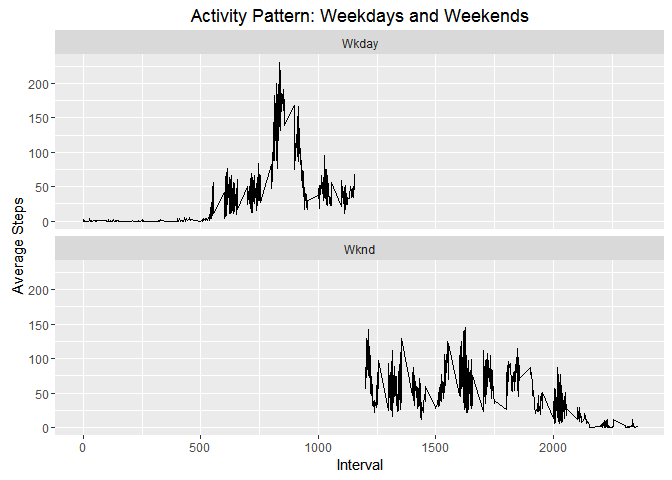
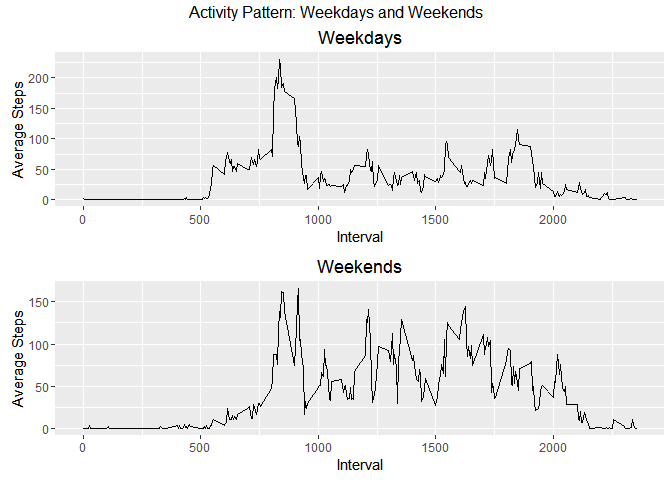
New Updates

diff --git a/PA_template.html b/PA_template.html
@@ -150,6 +150,12 @@ library(dplyr)</code></pre>
 <pre><code>## The following objects are masked from 'package:base':
 ## 
 ##     intersect, setdiff, setequal, union</code></pre>
+<pre class="r"><code>library(gridExtra)</code></pre>
+<pre><code>## 
+## Attaching package: 'gridExtra'</code></pre>
+<pre><code>## The following object is masked from 'package:dplyr':
+## 
+##     combine</code></pre>
 <pre class="r"><code>download(&quot;https://d396qusza40orc.cloudfront.net/repdata%2Fdata%2Factivity.zip&quot;, 
          dest=&quot;dataset.zip&quot;, mode=&quot;wb&quot;)
 
@@ -169,52 +175,10 @@ hist(daily_steps, xlab = &quot;Daily Steps&quot;, col = &quot;Green&quot;)</code
 <div id="mean-and-median-of-total-number-of-steps-taken-per-day" class="section level3">
 <h3>Mean and median of total number of steps taken per day</h3>
 <pre class="r"><code>#mean
-tapply(activity_df$steps, activity_df$date, mean)</code></pre>
-<pre><code>## 2012-10-01 2012-10-02 2012-10-03 2012-10-04 2012-10-05 2012-10-06 
-##         NA  0.4375000 39.4166667 42.0694444 46.1597222 53.5416667 
-## 2012-10-07 2012-10-08 2012-10-09 2012-10-10 2012-10-11 2012-10-12 
-## 38.2465278         NA 44.4826389 34.3750000 35.7777778 60.3541667 
-## 2012-10-13 2012-10-14 2012-10-15 2012-10-16 2012-10-17 2012-10-18 
-## 43.1458333 52.4236111 35.2048611 52.3750000 46.7083333 34.9166667 
-## 2012-10-19 2012-10-20 2012-10-21 2012-10-22 2012-10-23 2012-10-24 
-## 41.0729167 36.0937500 30.6284722 46.7361111 30.9652778 29.0104167 
-## 2012-10-25 2012-10-26 2012-10-27 2012-10-28 2012-10-29 2012-10-30 
-##  8.6527778 23.5347222 35.1354167 39.7847222 17.4236111 34.0937500 
-## 2012-10-31 2012-11-01 2012-11-02 2012-11-03 2012-11-04 2012-11-05 
-## 53.5208333         NA 36.8055556 36.7048611         NA 36.2465278 
-## 2012-11-06 2012-11-07 2012-11-08 2012-11-09 2012-11-10 2012-11-11 
-## 28.9375000 44.7326389 11.1770833         NA         NA 43.7777778 
-## 2012-11-12 2012-11-13 2012-11-14 2012-11-15 2012-11-16 2012-11-17 
-## 37.3784722 25.4722222         NA  0.1423611 18.8923611 49.7881944 
-## 2012-11-18 2012-11-19 2012-11-20 2012-11-21 2012-11-22 2012-11-23 
-## 52.4652778 30.6979167 15.5277778 44.3993056 70.9270833 73.5902778 
-## 2012-11-24 2012-11-25 2012-11-26 2012-11-27 2012-11-28 2012-11-29 
-## 50.2708333 41.0902778 38.7569444 47.3819444 35.3576389 24.4687500 
-## 2012-11-30 
-##         NA</code></pre>
-<pre class="r"><code>tapply(activity_df$steps, activity_df$date, median)</code></pre>
-<pre><code>## 2012-10-01 2012-10-02 2012-10-03 2012-10-04 2012-10-05 2012-10-06 
-##         NA          0          0          0          0          0 
-## 2012-10-07 2012-10-08 2012-10-09 2012-10-10 2012-10-11 2012-10-12 
-##          0         NA          0          0          0          0 
-## 2012-10-13 2012-10-14 2012-10-15 2012-10-16 2012-10-17 2012-10-18 
-##          0          0          0          0          0          0 
-## 2012-10-19 2012-10-20 2012-10-21 2012-10-22 2012-10-23 2012-10-24 
-##          0          0          0          0          0          0 
-## 2012-10-25 2012-10-26 2012-10-27 2012-10-28 2012-10-29 2012-10-30 
-##          0          0          0          0          0          0 
-## 2012-10-31 2012-11-01 2012-11-02 2012-11-03 2012-11-04 2012-11-05 
-##          0         NA          0          0         NA          0 
-## 2012-11-06 2012-11-07 2012-11-08 2012-11-09 2012-11-10 2012-11-11 
-##          0          0          0         NA         NA          0 
-## 2012-11-12 2012-11-13 2012-11-14 2012-11-15 2012-11-16 2012-11-17 
-##          0          0         NA          0          0          0 
-## 2012-11-18 2012-11-19 2012-11-20 2012-11-21 2012-11-22 2012-11-23 
-##          0          0          0          0          0          0 
-## 2012-11-24 2012-11-25 2012-11-26 2012-11-27 2012-11-28 2012-11-29 
-##          0          0          0          0          0          0 
-## 2012-11-30 
-##         NA</code></pre>
+mean(daily_steps, na.rm = TRUE)</code></pre>
+<pre><code>## [1] 10766.19</code></pre>
+<pre class="r"><code>median(daily_steps, na.rm = TRUE)</code></pre>
+<pre><code>## [1] 10765</code></pre>
 </div>
 </div>
 <div id="what-is-the-average-daily-activity-pattern" class="section level2">
@@ -266,52 +230,10 @@ daily_steps &lt;- tapply(activity_df$steps, activity_df$date, sum)
 hist(daily_steps, xlab = &quot;Daily Steps&quot;, col = &quot;Green&quot;)</code></pre>
[1 lines of base64/hex data omitted]
 <pre class="r"><code>#mean
-tapply(activity_df$steps, activity_df$date, mean)</code></pre>
-<pre><code>## 2012-10-01 2012-10-02 2012-10-03 2012-10-04 2012-10-05 2012-10-06 
-## 36.5625000  0.4375000 39.4166667 42.0694444 46.1597222 53.5416667 
-## 2012-10-07 2012-10-08 2012-10-09 2012-10-10 2012-10-11 2012-10-12 
-## 38.2465278 36.5625000 44.4826389 34.3750000 35.7777778 60.3541667 
-## 2012-10-13 2012-10-14 2012-10-15 2012-10-16 2012-10-17 2012-10-18 
-## 43.1458333 52.4236111 35.2048611 52.3750000 46.7083333 34.9166667 
-## 2012-10-19 2012-10-20 2012-10-21 2012-10-22 2012-10-23 2012-10-24 
-## 41.0729167 36.0937500 30.6284722 46.7361111 30.9652778 29.0104167 
-## 2012-10-25 2012-10-26 2012-10-27 2012-10-28 2012-10-29 2012-10-30 
-##  8.6527778 23.5347222 35.1354167 39.7847222 17.4236111 34.0937500 
-## 2012-10-31 2012-11-01 2012-11-02 2012-11-03 2012-11-04 2012-11-05 
-## 53.5208333 36.5625000 36.8055556 36.7048611 36.5625000 36.2465278 
-## 2012-11-06 2012-11-07 2012-11-08 2012-11-09 2012-11-10 2012-11-11 
-## 28.9375000 44.7326389 11.1770833 36.5625000 36.5625000 43.7777778 
-## 2012-11-12 2012-11-13 2012-11-14 2012-11-15 2012-11-16 2012-11-17 
-## 37.3784722 25.4722222 36.5625000  0.1423611 18.8923611 49.7881944 
-## 2012-11-18 2012-11-19 2012-11-20 2012-11-21 2012-11-22 2012-11-23 
-## 52.4652778 30.6979167 15.5277778 44.3993056 70.9270833 73.5902778 
-## 2012-11-24 2012-11-25 2012-11-26 2012-11-27 2012-11-28 2012-11-29 
-## 50.2708333 41.0902778 38.7569444 47.3819444 35.3576389 24.4687500 
-## 2012-11-30 
-## 36.5625000</code></pre>
-<pre class="r"><code>tapply(activity_df$steps, activity_df$date, median)</code></pre>
-<pre><code>## 2012-10-01 2012-10-02 2012-10-03 2012-10-04 2012-10-05 2012-10-06 
-##       33.5        0.0        0.0        0.0        0.0        0.0 
-## 2012-10-07 2012-10-08 2012-10-09 2012-10-10 2012-10-11 2012-10-12 
-##        0.0       33.5        0.0        0.0        0.0        0.0 
-## 2012-10-13 2012-10-14 2012-10-15 2012-10-16 2012-10-17 2012-10-18 
-##        0.0        0.0        0.0        0.0        0.0        0.0 
-## 2012-10-19 2012-10-20 2012-10-21 2012-10-22 2012-10-23 2012-10-24 
-##        0.0        0.0        0.0        0.0        0.0        0.0 
-## 2012-10-25 2012-10-26 2012-10-27 2012-10-28 2012-10-29 2012-10-30 
-##        0.0        0.0        0.0        0.0        0.0        0.0 
-## 2012-10-31 2012-11-01 2012-11-02 2012-11-03 2012-11-04 2012-11-05 
-##        0.0       33.5        0.0        0.0       33.5        0.0 
-## 2012-11-06 2012-11-07 2012-11-08 2012-11-09 2012-11-10 2012-11-11 
-##        0.0        0.0        0.0       33.5       33.5        0.0 
-## 2012-11-12 2012-11-13 2012-11-14 2012-11-15 2012-11-16 2012-11-17 
-##        0.0        0.0       33.5        0.0        0.0        0.0 
-## 2012-11-18 2012-11-19 2012-11-20 2012-11-21 2012-11-22 2012-11-23 
-##        0.0        0.0        0.0        0.0        0.0        0.0 
-## 2012-11-24 2012-11-25 2012-11-26 2012-11-27 2012-11-28 2012-11-29 
-##        0.0        0.0        0.0        0.0        0.0        0.0 
-## 2012-11-30 
-##       33.5</code></pre>
+mean(daily_steps)</code></pre>
+<pre><code>## [1] 10735.21</code></pre>
+<pre class="r"><code>median(daily_steps)</code></pre>
+<pre><code>## [1] 10530</code></pre>
 <p>As can be seen, the height of the histogram is higher once the missing NA values were imputed. Please note y-scale difference between two histograms. The same can be observed in mean and median values. The average steps per day is higher once the missing values were imputed.</p>
 </div>
 <div id="differences-in-activity-patterns-between-weekdays-and-weekends" class="section level2">
@@ -323,15 +245,22 @@ activity_df &lt;- mutate(activity_df, day_type = factor((weekdays(activity_df$da
 <p>Now let’s compare the weekend and weekdays activity with a panel plot containing a time series plot of the 5-minute interval (x-axis) and the average number of steps taken, averaged across all weekday days or weekend days (y-axis).</p>
 <pre class="r"><code>activity_df_grp &lt;- group_by(activity_df, interval, day_type)
 
-avg_steps_interval &lt;- summarize(activity_df_grp, avg_steps = mean(steps))
+avg_steps_interval &lt;- summarize(activity_df_grp, avg_steps = as.integer(mean(steps)))
 
-g &lt;- ggplot(avg_steps_interval, aes(x = avg_steps_interval$interval, 
-                                    y=avg_steps_interval$avg_steps))
+activity_wkday_df &lt;- filter(avg_steps_interval, day_type == &quot;Wkday&quot;)
 
-g + geom_line() + facet_wrap(~ day_type, ncol = 1) + 
+activity_wkend_df &lt;- filter(avg_steps_interval, day_type == &quot;Wknd&quot;)
+
+g &lt;- ggplot(activity_wkday_df, aes(x = interval, y = avg_steps))+ geom_line() + 
     labs(x = &quot;Interval&quot;) + labs(y = &quot;Average Steps&quot;) +
-    labs(title = &quot;Activity Pattern: Weekdays and Weekends&quot;) </code></pre>
[1 lines of base64/hex data omitted]
+    labs(title = &quot;Weekdays&quot;) 
+   
+h &lt;- ggplot(activity_wkend_df, aes(x = interval, y = avg_steps)) + geom_line() + 
+    labs(x = &quot;Interval&quot;) + labs(y = &quot;Average Steps&quot;) +
+    labs(title = &quot;Weekends&quot;) 
+
+grid.arrange(g, h, ncol = 1, top=&quot;Activity Pattern: Weekdays and Weekends&quot;)</code></pre>
[1 lines of base64/hex data omitted]
 </div>
 </div>
 

diff --git a/PA_template.md b/PA_template.md
@@ -47,6 +47,21 @@ library(dplyr)
 ```
 
 ```r
+library(gridExtra)
+```
+
+```
+## 
+## Attaching package: 'gridExtra'
+```
+
+```
+## The following object is masked from 'package:dplyr':
+## 
+##     combine
+```
+
+```r
 download("https://d396qusza40orc.cloudfront.net/repdata%2Fdata%2Factivity.zip", 
          dest="dataset.zip", mode="wb")
 
@@ -73,61 +88,19 @@ hist(daily_steps, xlab = "Daily Steps", col = "Green")
 
 ```r
 #mean
-tapply(activity_df$steps, activity_df$date, mean)
+mean(daily_steps, na.rm = TRUE)
 ```
 
 ```
-## 2012-10-01 2012-10-02 2012-10-03 2012-10-04 2012-10-05 2012-10-06 
-##         NA  0.4375000 39.4166667 42.0694444 46.1597222 53.5416667 
-## 2012-10-07 2012-10-08 2012-10-09 2012-10-10 2012-10-11 2012-10-12 
-## 38.2465278         NA 44.4826389 34.3750000 35.7777778 60.3541667 
-## 2012-10-13 2012-10-14 2012-10-15 2012-10-16 2012-10-17 2012-10-18 
-## 43.1458333 52.4236111 35.2048611 52.3750000 46.7083333 34.9166667 
-## 2012-10-19 2012-10-20 2012-10-21 2012-10-22 2012-10-23 2012-10-24 
-## 41.0729167 36.0937500 30.6284722 46.7361111 30.9652778 29.0104167 
-## 2012-10-25 2012-10-26 2012-10-27 2012-10-28 2012-10-29 2012-10-30 
-##  8.6527778 23.5347222 35.1354167 39.7847222 17.4236111 34.0937500 
-## 2012-10-31 2012-11-01 2012-11-02 2012-11-03 2012-11-04 2012-11-05 
-## 53.5208333         NA 36.8055556 36.7048611         NA 36.2465278 
-## 2012-11-06 2012-11-07 2012-11-08 2012-11-09 2012-11-10 2012-11-11 
-## 28.9375000 44.7326389 11.1770833         NA         NA 43.7777778 
-## 2012-11-12 2012-11-13 2012-11-14 2012-11-15 2012-11-16 2012-11-17 
-## 37.3784722 25.4722222         NA  0.1423611 18.8923611 49.7881944 
-## 2012-11-18 2012-11-19 2012-11-20 2012-11-21 2012-11-22 2012-11-23 
-## 52.4652778 30.6979167 15.5277778 44.3993056 70.9270833 73.5902778 
-## 2012-11-24 2012-11-25 2012-11-26 2012-11-27 2012-11-28 2012-11-29 
-## 50.2708333 41.0902778 38.7569444 47.3819444 35.3576389 24.4687500 
-## 2012-11-30 
-##         NA
+## [1] 10766.19
 ```
 
 ```r
-tapply(activity_df$steps, activity_df$date, median)
+median(daily_steps, na.rm = TRUE)
 ```
 
 ```
-## 2012-10-01 2012-10-02 2012-10-03 2012-10-04 2012-10-05 2012-10-06 
-##         NA          0          0          0          0          0 
-## 2012-10-07 2012-10-08 2012-10-09 2012-10-10 2012-10-11 2012-10-12 
-##          0         NA          0          0          0          0 
-## 2012-10-13 2012-10-14 2012-10-15 2012-10-16 2012-10-17 2012-10-18 
-##          0          0          0          0          0          0 
-## 2012-10-19 2012-10-20 2012-10-21 2012-10-22 2012-10-23 2012-10-24 
-##          0          0          0          0          0          0 
-## 2012-10-25 2012-10-26 2012-10-27 2012-10-28 2012-10-29 2012-10-30 
-##          0          0          0          0          0          0 
-## 2012-10-31 2012-11-01 2012-11-02 2012-11-03 2012-11-04 2012-11-05 
-##          0         NA          0          0         NA          0 
-## 2012-11-06 2012-11-07 2012-11-08 2012-11-09 2012-11-10 2012-11-11 
-##          0          0          0         NA         NA          0 
-## 2012-11-12 2012-11-13 2012-11-14 2012-11-15 2012-11-16 2012-11-17 
-##          0          0         NA          0          0          0 
-## 2012-11-18 2012-11-19 2012-11-20 2012-11-21 2012-11-22 2012-11-23 
-##          0          0          0          0          0          0 
-## 2012-11-24 2012-11-25 2012-11-26 2012-11-27 2012-11-28 2012-11-29 
-##          0          0          0          0          0          0 
-## 2012-11-30 
-##         NA
+## [1] 10765
 ```
 
 ## What is the average daily activity pattern?
@@ -216,61 +189,19 @@ hist(daily_steps, xlab = "Daily Steps", col = "Green")
 
 ```r
 #mean
-tapply(activity_df$steps, activity_df$date, mean)
+mean(daily_steps)
 ```
 
 ```
-## 2012-10-01 2012-10-02 2012-10-03 2012-10-04 2012-10-05 2012-10-06 
-## 36.5625000  0.4375000 39.4166667 42.0694444 46.1597222 53.5416667 
-## 2012-10-07 2012-10-08 2012-10-09 2012-10-10 2012-10-11 2012-10-12 
-## 38.2465278 36.5625000 44.4826389 34.3750000 35.7777778 60.3541667 
-## 2012-10-13 2012-10-14 2012-10-15 2012-10-16 2012-10-17 2012-10-18 
-## 43.1458333 52.4236111 35.2048611 52.3750000 46.7083333 34.9166667 
-## 2012-10-19 2012-10-20 2012-10-21 2012-10-22 2012-10-23 2012-10-24 
-## 41.0729167 36.0937500 30.6284722 46.7361111 30.9652778 29.0104167 
-## 2012-10-25 2012-10-26 2012-10-27 2012-10-28 2012-10-29 2012-10-30 
-##  8.6527778 23.5347222 35.1354167 39.7847222 17.4236111 34.0937500 
-## 2012-10-31 2012-11-01 2012-11-02 2012-11-03 2012-11-04 2012-11-05 
-## 53.5208333 36.5625000 36.8055556 36.7048611 36.5625000 36.2465278 
-## 2012-11-06 2012-11-07 2012-11-08 2012-11-09 2012-11-10 2012-11-11 
-## 28.9375000 44.7326389 11.1770833 36.5625000 36.5625000 43.7777778 
-## 2012-11-12 2012-11-13 2012-11-14 2012-11-15 2012-11-16 2012-11-17 
-## 37.3784722 25.4722222 36.5625000  0.1423611 18.8923611 49.7881944 
-## 2012-11-18 2012-11-19 2012-11-20 2012-11-21 2012-11-22 2012-11-23 
-## 52.4652778 30.6979167 15.5277778 44.3993056 70.9270833 73.5902778 
-## 2012-11-24 2012-11-25 2012-11-26 2012-11-27 2012-11-28 2012-11-29 
-## 50.2708333 41.0902778 38.7569444 47.3819444 35.3576389 24.4687500 
-## 2012-11-30 
-## 36.5625000
+## [1] 10735.21
 ```
 
 ```r
-tapply(activity_df$steps, activity_df$date, median)
+median(daily_steps)
 ```
 
 ```
-## 2012-10-01 2012-10-02 2012-10-03 2012-10-04 2012-10-05 2012-10-06 
-##       33.5        0.0        0.0        0.0        0.0        0.0 
-## 2012-10-07 2012-10-08 2012-10-09 2012-10-10 2012-10-11 2012-10-12 
-##        0.0       33.5        0.0        0.0        0.0        0.0 
-## 2012-10-13 2012-10-14 2012-10-15 2012-10-16 2012-10-17 2012-10-18 
-##        0.0        0.0        0.0        0.0        0.0        0.0 
-## 2012-10-19 2012-10-20 2012-10-21 2012-10-22 2012-10-23 2012-10-24 
-##        0.0        0.0        0.0        0.0        0.0        0.0 
-## 2012-10-25 2012-10-26 2012-10-27 2012-10-28 2012-10-29 2012-10-30 
-##        0.0        0.0        0.0        0.0        0.0        0.0 
-## 2012-10-31 2012-11-01 2012-11-02 2012-11-03 2012-11-04 2012-11-05 
-##        0.0       33.5        0.0        0.0       33.5        0.0 
-## 2012-11-06 2012-11-07 2012-11-08 2012-11-09 2012-11-10 2012-11-11 
-##        0.0        0.0        0.0       33.5       33.5        0.0 
-## 2012-11-12 2012-11-13 2012-11-14 2012-11-15 2012-11-16 2012-11-17 
-##        0.0        0.0       33.5        0.0        0.0        0.0 
-## 2012-11-18 2012-11-19 2012-11-20 2012-11-21 2012-11-22 2012-11-23 
-##        0.0        0.0        0.0        0.0        0.0        0.0 
-## 2012-11-24 2012-11-25 2012-11-26 2012-11-27 2012-11-28 2012-11-29 
-##        0.0        0.0        0.0        0.0        0.0        0.0 
-## 2012-11-30 
-##       33.5
+## [1] 10530
 ```
 
 As can be seen, the height of the histogram is higher once the missing NA values
@@ -296,14 +227,21 @@ Now let's compare the weekend and weekdays activity with a panel plot containing
 ```r
 activity_df_grp <- group_by(activity_df, interval, day_type)
 
-avg_steps_interval <- summarize(activity_df_grp, avg_steps = mean(steps))
+avg_steps_interval <- summarize(activity_df_grp, avg_steps = as.integer(mean(steps)))
 
-g <- ggplot(avg_steps_interval, aes(x = avg_steps_interval$interval, 
-                                    y=avg_steps_interval$avg_steps))
+activity_wkday_df <- filter(avg_steps_interval, day_type == "Wkday")
 
-g + geom_line() + facet_wrap(~ day_type, ncol = 1) + 
+activity_wkend_df <- filter(avg_steps_interval, day_type == "Wknd")
+
+g <- ggplot(activity_wkday_df, aes(x = interval, y = avg_steps))+ geom_line() + 
     labs(x = "Interval") + labs(y = "Average Steps") +
-    labs(title = "Activity Pattern: Weekdays and Weekends") 
+    labs(title = "Weekdays") 
+   
+h <- ggplot(activity_wkend_df, aes(x = interval, y = avg_steps)) + geom_line() + 
+    labs(x = "Interval") + labs(y = "Average Steps") +
+    labs(title = "Weekends") 
+
+grid.arrange(g, h, ncol = 1, top="Activity Pattern: Weekdays and Weekends")
 ```
 
 ![](.\Figures\unnamed-chunk-9-1.png)<!-- -->
